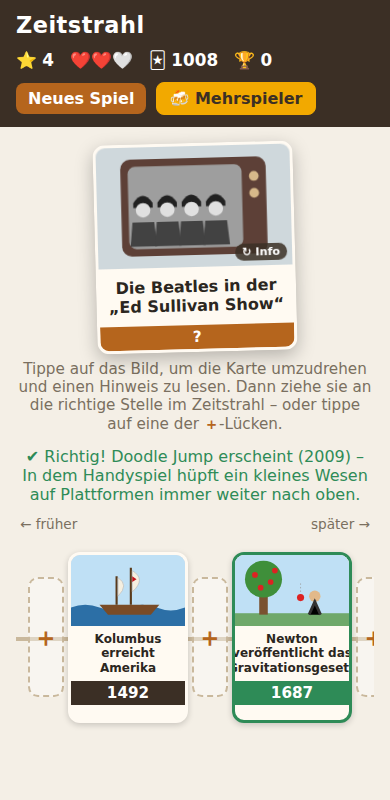
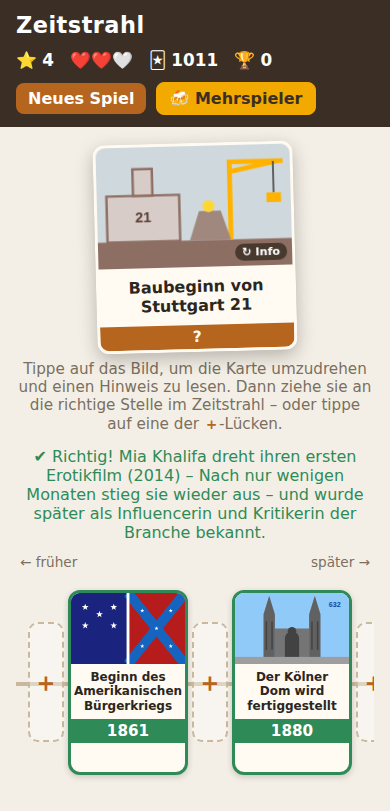
Add Punica, Alnatura and FitX
Claude-Session: https://claude.ai/code/session_01Nr3EjojewoDudnqC8Cy7nP

diff --git a/events.js b/events.js
@@ -549,6 +549,7 @@ const EVENTS = [
   { id: "rtlplus", title: "RTL plus startet – Beginn des Privatfernsehens", year: 1984, image: "img/rtlplus.svg", fact: "Am 2. Januar ging der erste private Fernsehsender für Deutschland auf Sendung." },
   { id: "tetris", title: "„Tetris“ wird erfunden", year: 1984, image: "img/tetris.svg", fact: "Der sowjetische Programmierer Alexei Paschitnow entwickelte das Klötzchen-Spiel in Moskau." },
   { id: "lastchristmas", title: "Wham! veröffentlichen „Last Christmas“", year: 1984, image: "img/lastchristmas.svg", fact: "George Michaels Weihnachtslied ist jedes Jahr wieder in den Charts.", hint: "George Michael und sein Popduo veröffentlichen ein Weihnachtslied, das jedes Jahr wieder läuft." },
+  { id: "alnatura", title: "Gründung von Alnatura", year: 1984, image: "img/alnatura.svg", fact: "Götz Rehn gründete die Bio-Marke; der erste Alnatura-Supermarkt eröffnete wenige Jahre später in Mannheim.", hint: "Ein Unternehmer gründet eine Bio-Lebensmittelmarke, die später eigene Bio-Supermärkte eröffnet." },
   { id: "ozon", title: "Entdeckung des Ozonlochs", year: 1985, image: "img/ozon.svg", fact: "Forscher entdeckten über der Antarktis eine dünne Stelle in der schützenden Ozonschicht." },
   { id: "liveaid", title: "Live-Aid-Konzert", year: 1985, image: "img/liveaid.svg", fact: "Konzerte in London und Philadelphia sammelten Geld gegen die Hungersnot in Äthiopien – Queen gab einen legendären Auftritt." },
   { id: "becker", title: "Boris Becker gewinnt erstmals Wimbledon", year: 1985, image: "img/becker.svg", fact: "Mit 17 Jahren wurde er der jüngste Wimbledon-Sieger aller Zeiten – und gewann das Turnier danach noch zweimal." },
@@ -783,6 +784,7 @@ const EVENTS = [
   { id: "rogan", title: "„The Joe Rogan Experience“ startet", year: 2009, image: "img/rogan.svg", fact: "Der Comedian und UFC-Kommentator startete den Podcast, der zum meistgehörten der Welt wurde.", hint: "Ein Comedian und UFC-Kommentator startet einen Podcast, der zum meistgehörten der Welt wird." },
   { id: "galaxy", title: "Das erste Samsung Galaxy erscheint", year: 2009, image: "img/galaxy.svg", fact: "Samsungs erstes Android-Smartphone legte den Grundstein für die erfolgreiche Galaxy-Reihe.", hint: "Samsung bringt sein erstes Android-Smartphone heraus – der Start einer berühmten Handy-Reihe." },
   { id: "gamescom", title: "Die erste Gamescom in Köln", year: 2009, image: "img/gamescom.svg", fact: "Die Spielemesse zog von Leipzig nach Köln und wurde zur größten Gaming-Messe der Welt.", hint: "In Köln findet zum ersten Mal die Messe statt, die zur größten Videospielmesse der Welt wird." },
+  { id: "fitx", title: "Das erste FitX-Studio öffnet in Essen", year: 2009, image: "img/fitx.svg", fact: "Mit günstigen Preisen und langen Öffnungszeiten wurde FitX zu einer der größten Fitnessketten Deutschlands.", hint: "In Essen öffnet das erste Studio einer Fitnesskette, die mit niedrigen Preisen groß wird." },
   { id: "arabischer_fruehling", title: "Beginn des Arabischen Frühlings", year: 2010, image: "img/arabischer_fruehling.svg", fact: "Proteste in Tunesien breiteten sich auf viele arabische Länder aus." },
   { id: "instagram", title: "Instagram geht online", year: 2010, image: "img/instagram.svg", fact: "Die Foto-App startete im Oktober zunächst nur für das iPhone – 2012 kaufte Facebook sie für 1 Milliarde Dollar.", hint: "Die Foto-App mit den Filtern startet – zunächst nur für das iPhone." },
   { id: "s21", title: "Baubeginn von Stuttgart 21", year: 2010, image: "img/s21.svg", fact: "Das umstrittene Bahnprojekt löste große Proteste aus und wird viel teurer und später fertig als geplant." },
@@ -978,6 +980,7 @@ const EVENTS = [
   { id: "claude", title: "Der KI-Assistent Claude geht online", year: 2023, image: "img/claude.svg", fact: "Das US-Unternehmen Anthropic veröffentlichte seinen KI-Chatbot im März – wenige Monate nach ChatGPT.", hint: "Das Unternehmen Anthropic veröffentlicht seinen KI-Assistenten – ein Konkurrent von ChatGPT." },
   { id: "usbc", title: "Das iPhone bekommt einen USB-C-Anschluss", year: 2023, image: "img/usbc.svg", fact: "Mit dem iPhone 15 verabschiedete sich Apple wegen einer EU-Vorgabe vom Lightning-Stecker.", hint: "Wegen einer EU-Vorgabe wechselt Apple beim iPhone vom eigenen Stecker auf USB-C." },
   { id: "bonnie_blue", title: "Bonnie Blue beginnt ihre Karriere als Erotik-Darstellerin", year: 2023, image: "img/bonnie_blue.svg", fact: "Die Britin wurde mit provokanten Rekord-Aktionen zu einer der bekanntesten und umstrittensten Online-Erotik-Stars.", hint: "Eine Britin startet als Online-Erotik-Darstellerin und wird mit provokanten Aktionen zum umstrittenen Star." },
+  { id: "punica", title: "Punica wird eingestellt", year: 2023, image: "img/punica.svg", fact: "PepsiCo nahm das Kultgetränk der 90er („Punica-Oase“) vom Markt – ein Jahr später feierte es ein Comeback.", hint: "Ein bekanntes Fruchtsaftgetränk mit Kult-Werbung aus den 90ern wird vom Markt genommen." },
   { id: "olympia_paris", title: "Olympische Sommerspiele in Paris", year: 2024, image: "img/olympia_paris.svg", fact: "Die Eröffnungsfeier fand erstmals nicht in einem Stadion statt, sondern auf der Seine." },
   { id: "hawktuah", title: "„Hawk Tuah“ wird zum viralen Meme", year: 2024, image: "img/hawktuah.svg", fact: "Ein kurzer Ausschnitt aus einem Straßeninterview ging weltweit durch die sozialen Netzwerke." },
   { id: "lindner", title: "Olaf Scholz entlässt Finanzminister Christian Lindner", year: 2024, image: "img/lindner.svg", fact: "Damit zerbrach die Ampel-Koalition; im Februar 2025 folgte eine vorgezogene Bundestagswahl.", hint: "Der Kanzler entlässt den FDP-Finanzminister – damit zerbricht die Ampel-Koalition." },
